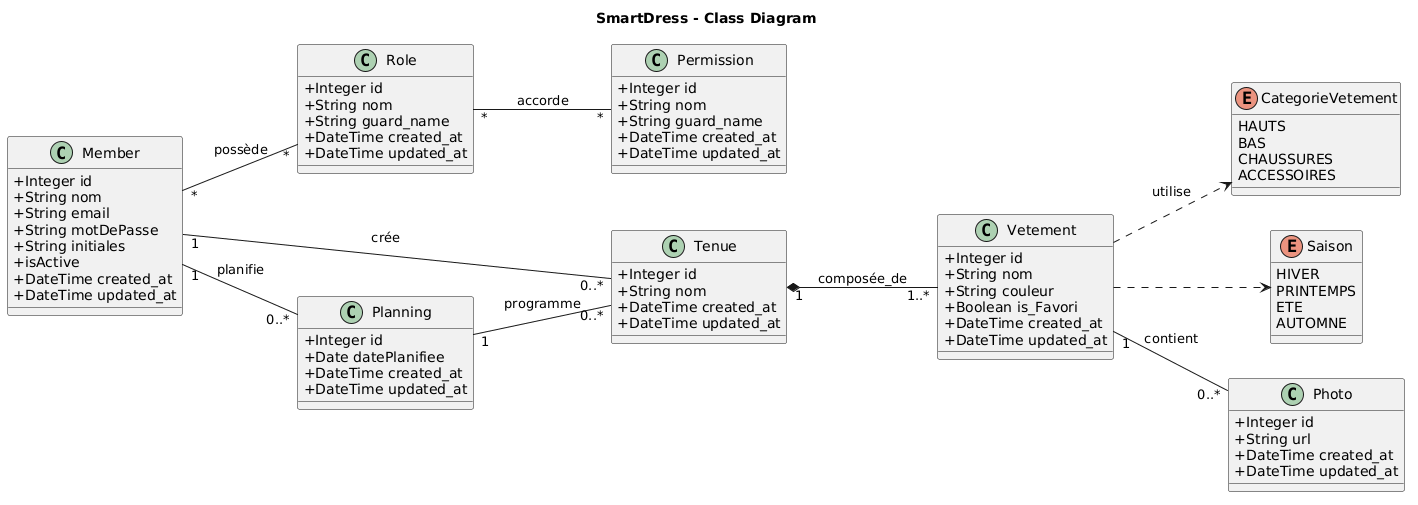
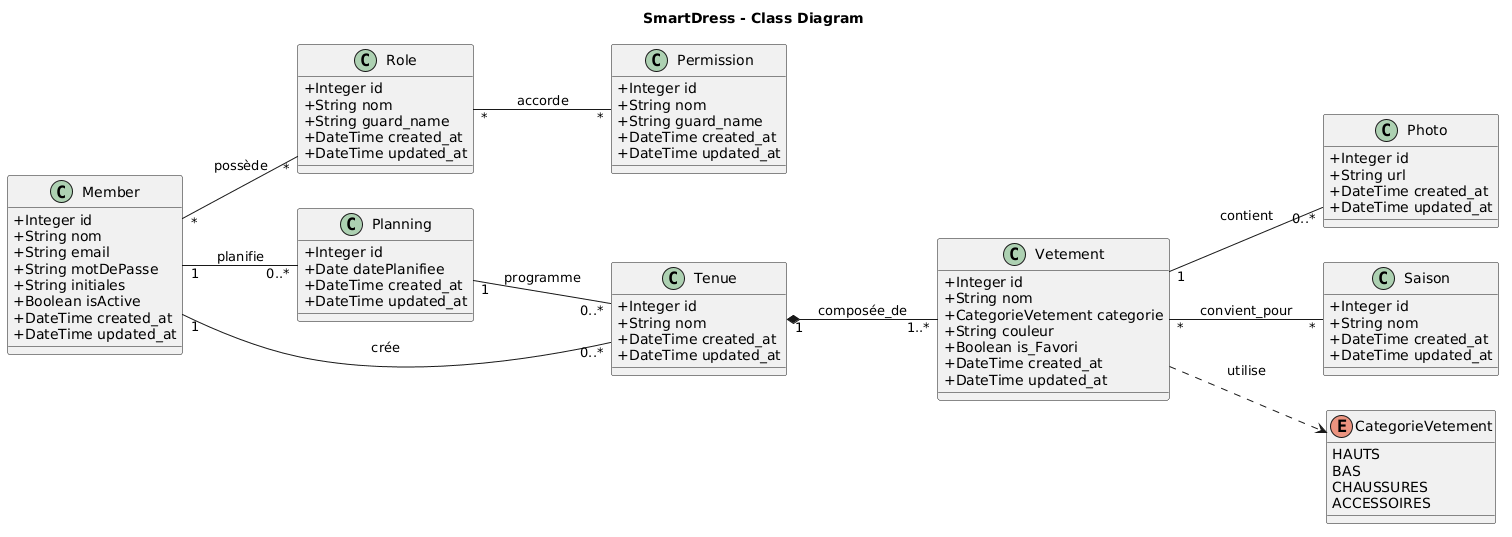
en lever la partie temoin et modifier diaframma de classe

Changed region(s): [[0.0, 0.1485, 0.9929, 0.802], [0.1241, 0.0, 0.5896, 0.3564], [0.8378, 0.7426, 0.9929, 0.9802]]

diff --git a/smartdress/resources/views/welcome.blade.php b/smartdress/resources/views/welcome.blade.php
@@ -73,20 +73,22 @@
                 <template x-if="isLoggedIn">
                     <div class="flex items-center gap-3">
                         @auth
-                        <a href="{{ route("profile") }}"
-                            class="flex items-center gap-2 px-4 py-2 bg-cream/50 rounded-full text-xs font-bold text-bark hover:bg-cream transition-all border border-tan/10">
-                            <div
-                                class="w-6 h-6 bg-tan rounded-full flex items-center justify-center text-[10px] text-white">
-                                {{ auth()->user()->initials() }}</div>
-                            {{ auth()->user()->name }}
-                        </a>
-                        <form action="{{ route('logout') }}" method="POST" class="inline">
-                            @csrf
-                            <button type="submit" class="text-xs font-bold text-tan hover:text-bark uppercase tracking-widest px-2 transition-all">Déconnexion</button>
-                        </form>
+                            <a href="{{ route("profile") }}"
+                                class="flex items-center gap-2 px-4 py-2 bg-cream/50 rounded-full text-xs font-bold text-bark hover:bg-cream transition-all border border-tan/10">
+                                <div
+                                    class="w-6 h-6 bg-tan rounded-full flex items-center justify-center text-[10px] text-white">
+                                    {{ auth()->user()->initials() }}
+                                </div>
+                                {{ auth()->user()->name }}
+                            </a>
+                            <form action="{{ route('logout') }}" method="POST" class="inline">
+                                @csrf
+                                <button type="submit"
+                                    class="text-xs font-bold text-tan hover:text-bark uppercase tracking-widest px-2 transition-all">Déconnexion</button>
+                            </form>
                         @else
-                        <!-- Fallback si Alpine pense être connecté mais Laravel non -->
-                        <a href="{{ route("login", ["mode" => "login"]) }}" class="sd-btn-ghost">Se connecter</a>
+                            <!-- Fallback si Alpine pense être connecté mais Laravel non -->
+                            <a href="{{ route("login", ["mode" => "login"]) }}" class="sd-btn-ghost">Se connecter</a>
                         @endauth
                     </div>
                 </template>
@@ -604,49 +606,6 @@
         </div>
     </section>
 
-
-    <!-- TESTIMONIALS -->
-    <section id="trust" class="sd-section" style="background:#F5EEE4">
-        <div class="max-w-screen-xl mx-auto px-6 lg:px-12 text-center">
-            <span class="sd-tag">Témoignages</span>
-            <h2 class="sd-section-title mt-3">Ce que disent nos <em>utilisateurs</em></h2>
-        </div>
-        <div class="max-w-screen-xl mx-auto px-6 lg:px-12 mt-14 grid grid-cols-1 md:grid-cols-3 gap-6">
-            <div class="sd-testimonial observe-me">
-                <p class="sd-testi-quote">"Je ne pensais pas qu'une app pourrait changer mon rapport aux vêtements.
-                    Maintenant je gagne facilement 15 min chaque matin."</p>
-                <div class="sd-testi-author">
-                    <div class="sd-testi-avatar">S</div>
-                    <div>
-                        <p class="sd-testi-name">Sara M.</p>
-                        <p class="sd-testi-role">Étudiante en design</p>
-                    </div>
-                </div>
-            </div>
-            <div class="sd-testimonial sd-testimonial--featured observe-me" style="transition-delay: 60ms">
-                <p class="sd-testi-quote">"Les suggestions météo sont bluffantes. Plus jamais je ne sors avec le mauvais
-                    manteau. L'interface est belle et fluide."</p>
-                <div class="sd-testi-author">
-                    <div class="sd-testi-avatar">K</div>
-                    <div>
-                        <p class="sd-testi-name">Karim B.</p>
-                        <p class="sd-testi-role">Développeur web</p>
-                    </div>
-                </div>
-            </div>
-            <div class="sd-testimonial observe-me" style="transition-delay: 120ms">
-                <p class="sd-testi-quote">"Enfin une application qui comprend vraiment les besoins de quelqu'un qui a
-                    trop de vêtements et pas assez de temps !"</p>
-                <div class="sd-testi-author">
-                    <div class="sd-testi-avatar">L</div>
-                    <div>
-                        <p class="sd-testi-name">Leila R.</p>
-                        <p class="sd-testi-role">Manager RH</p>
-                    </div>
-                </div>
-            </div>
-        </div>
-    </section>
 
 
     <!-- CTA SECTION -->
